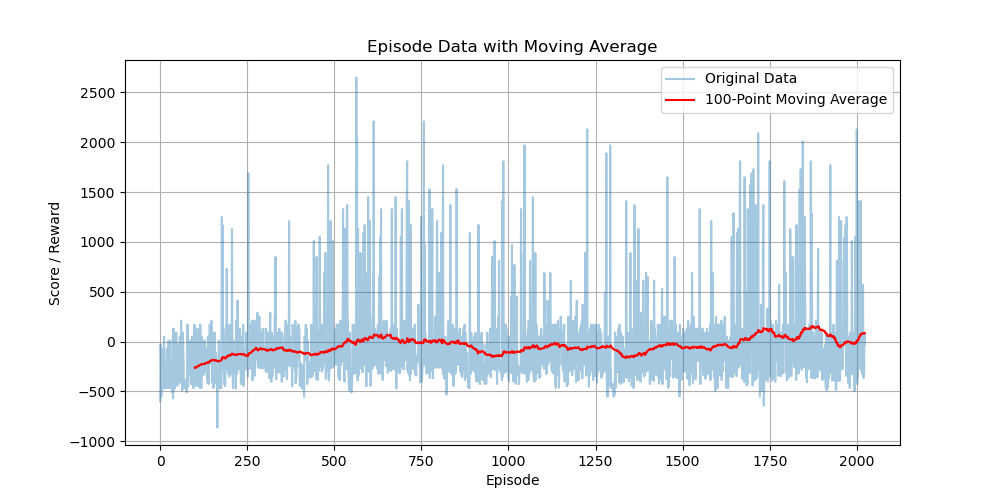
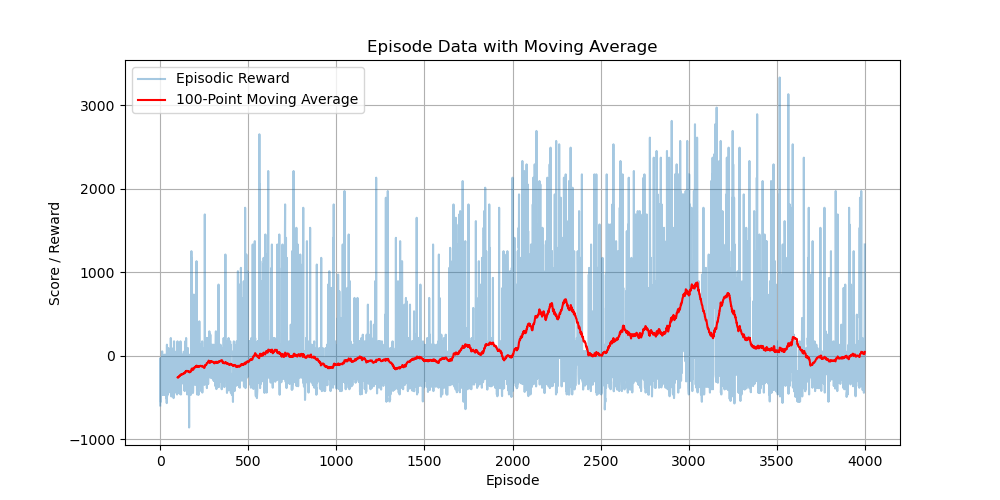
update: generated new plots with improved legend, removed old plots

diff --git a/rl_obstacle_avoidance/rl_obstacle_avoidance/plots.py b/rl_obstacle_avoidance/rl_obstacle_avoidance/plots.py
@@ -40,7 +40,7 @@ def plot_moving_average(filename, window_size=100):
     moving_avg = np.convolve(data_np, np.ones(window_size)/window_size, mode='valid')
 
     plt.figure(figsize=(10, 5))
-    plt.plot(data, label='Original Data', alpha=0.4)
+    plt.plot(data, label='Episodic Reward', alpha=0.4)
     plt.plot(range(window_size - 1, len(data)), moving_avg, label=f'{window_size}-Point Moving Average', color='red')
     plt.xlabel('Episode')
     plt.ylabel('Score / Reward')
@@ -130,7 +130,7 @@ def plot_collisions_combined():
 
         plt.plot(x, collision_data, style, label=label)
 
-    plt.ylim(25, 220)
+    plt.ylim(0, 200)
     plt.xlim(200, 4000)
     plt.xlabel('Episode')
     plt.ylabel('Collision Count')
@@ -138,10 +138,14 @@ def plot_collisions_combined():
     plt.legend()
     plt.grid(True)
     plt.tight_layout()
+    plt.savefig('rl_obstacle_avoidance/data/collision_history_combined.png')
     plt.show()
 
 if __name__ == "__main__":
 
+    plot_moving_average('q_table_lr0.1_df0.6_episode_data', window_size=100)
+    plot_moving_average('q_table_lr0.1_df0.9_episode_data', window_size=100)
     plot_moving_average('q_table_lr0.3_df0.6_episode_data', window_size=100)
+    plot_moving_average('q_table_lr0.3_df0.9_episode_data', window_size=100)
     plot_collisions_combined()
     
